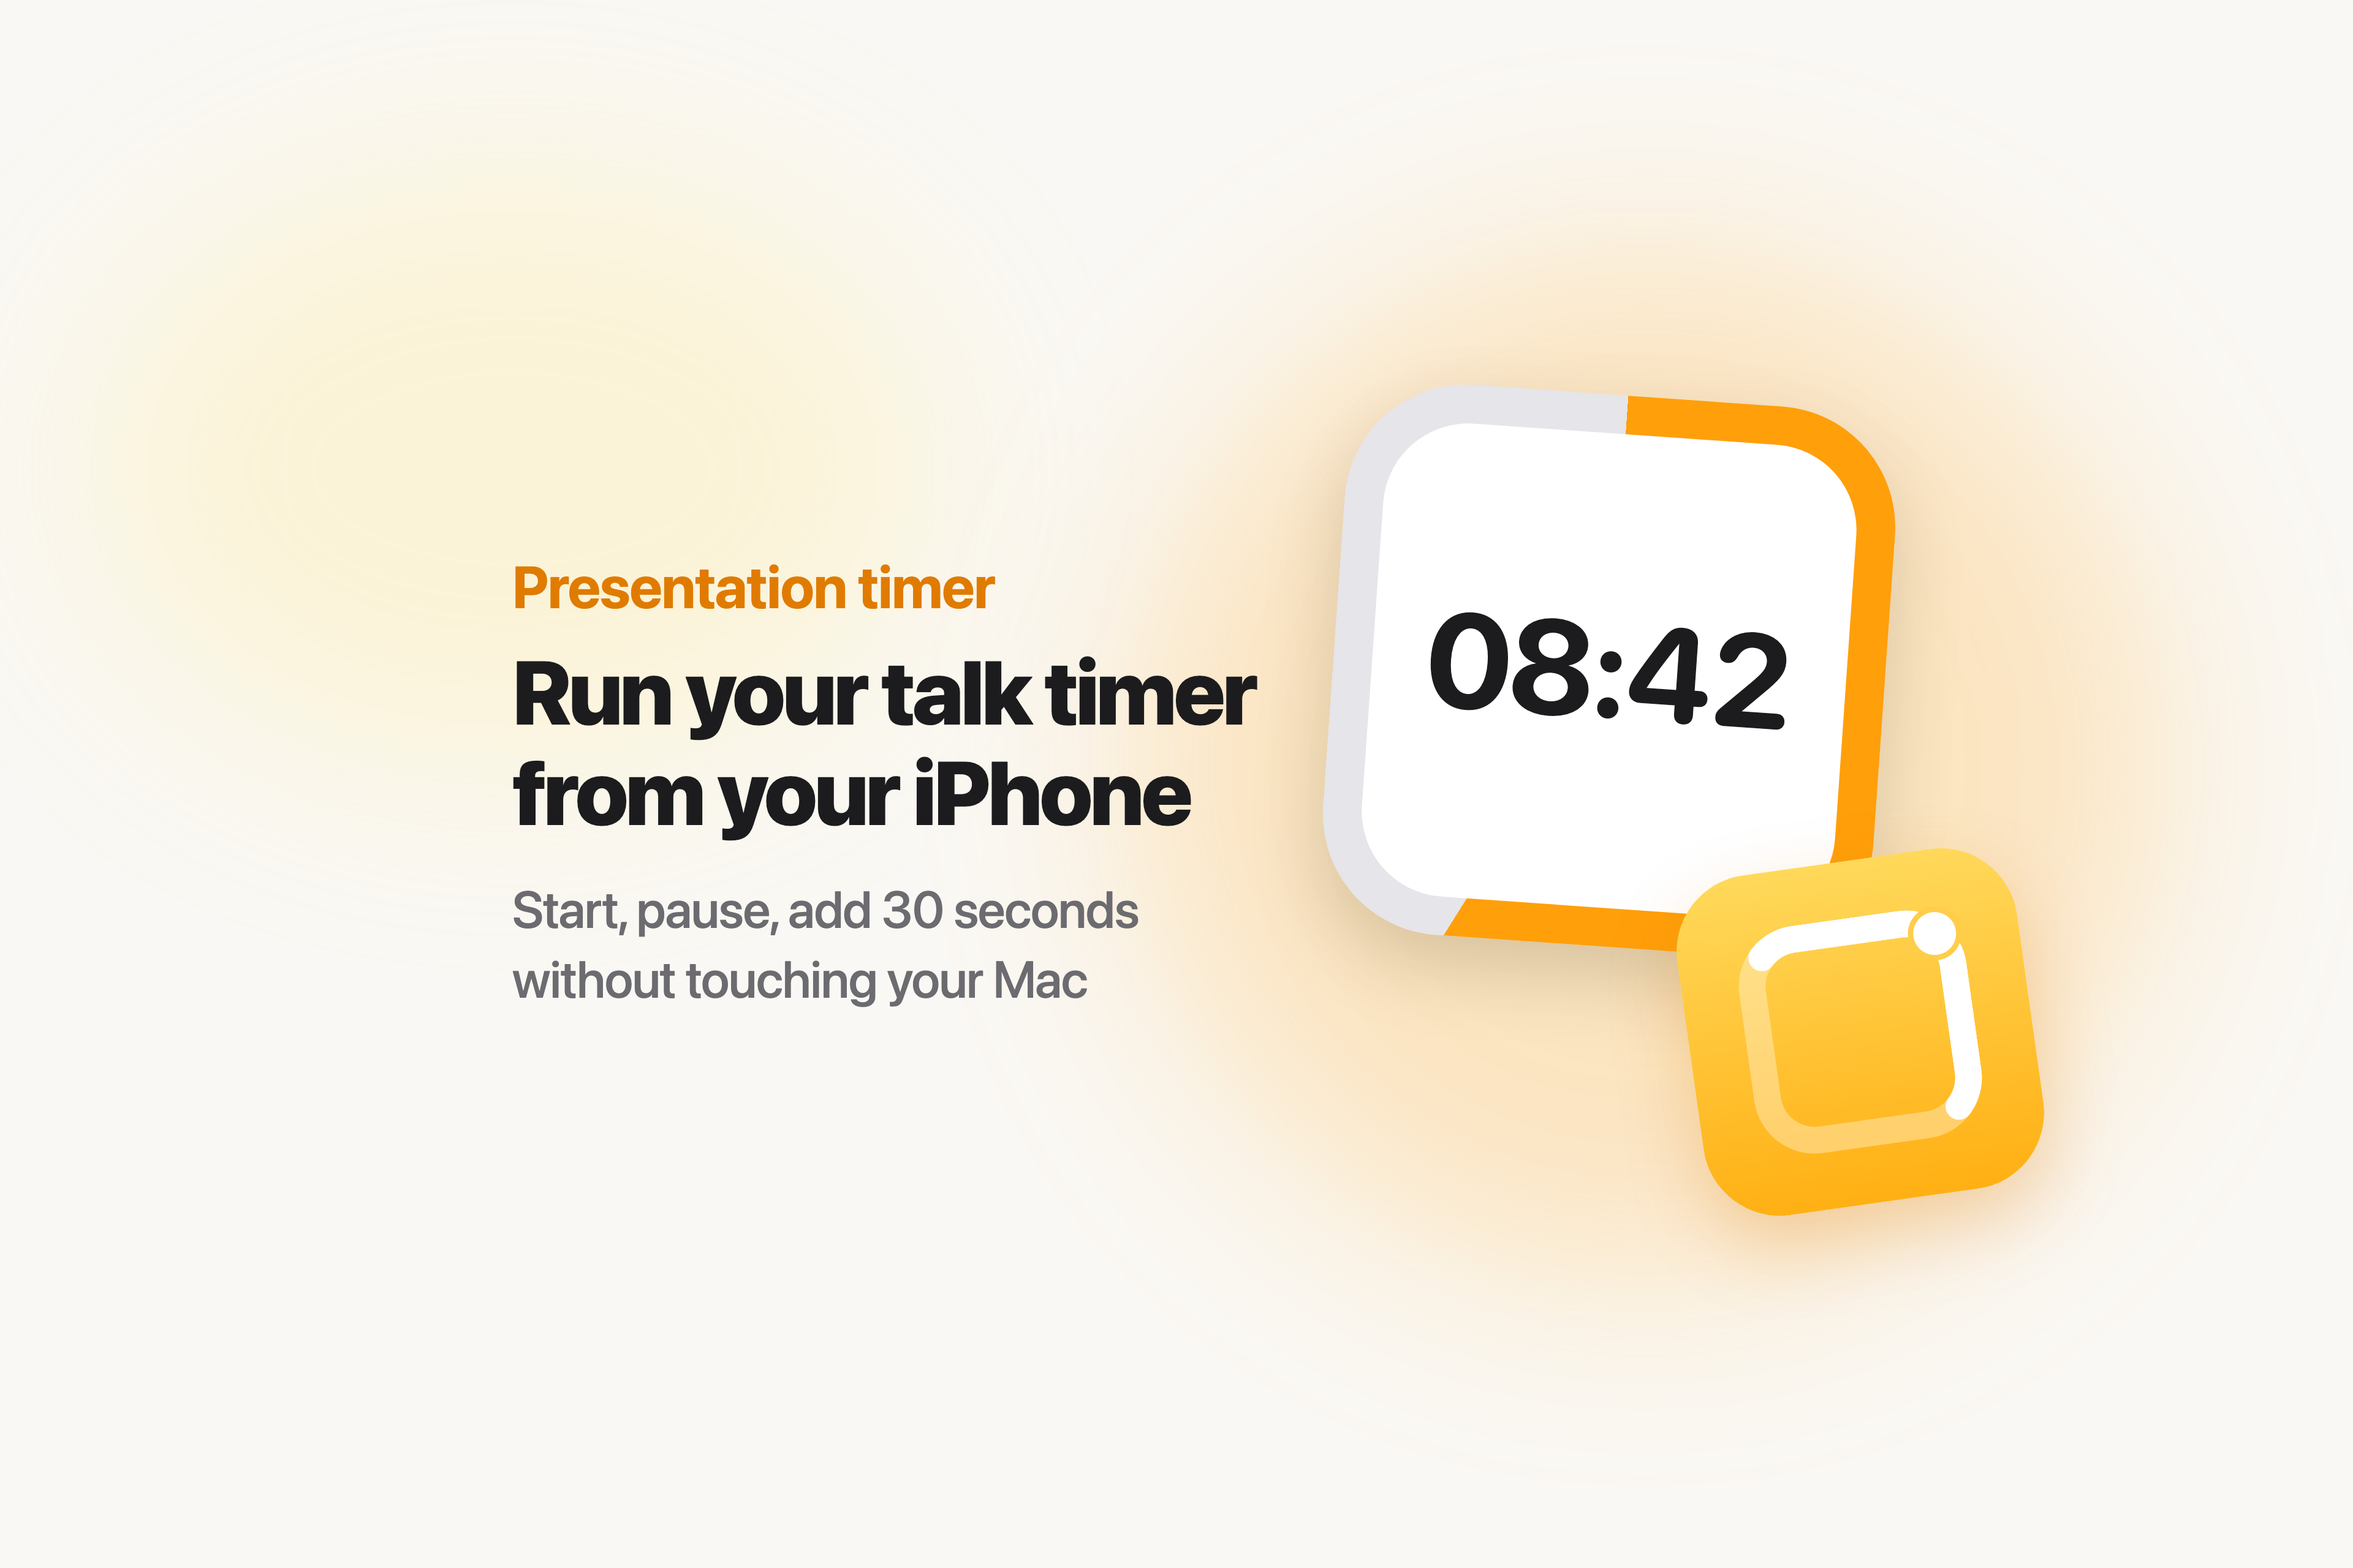
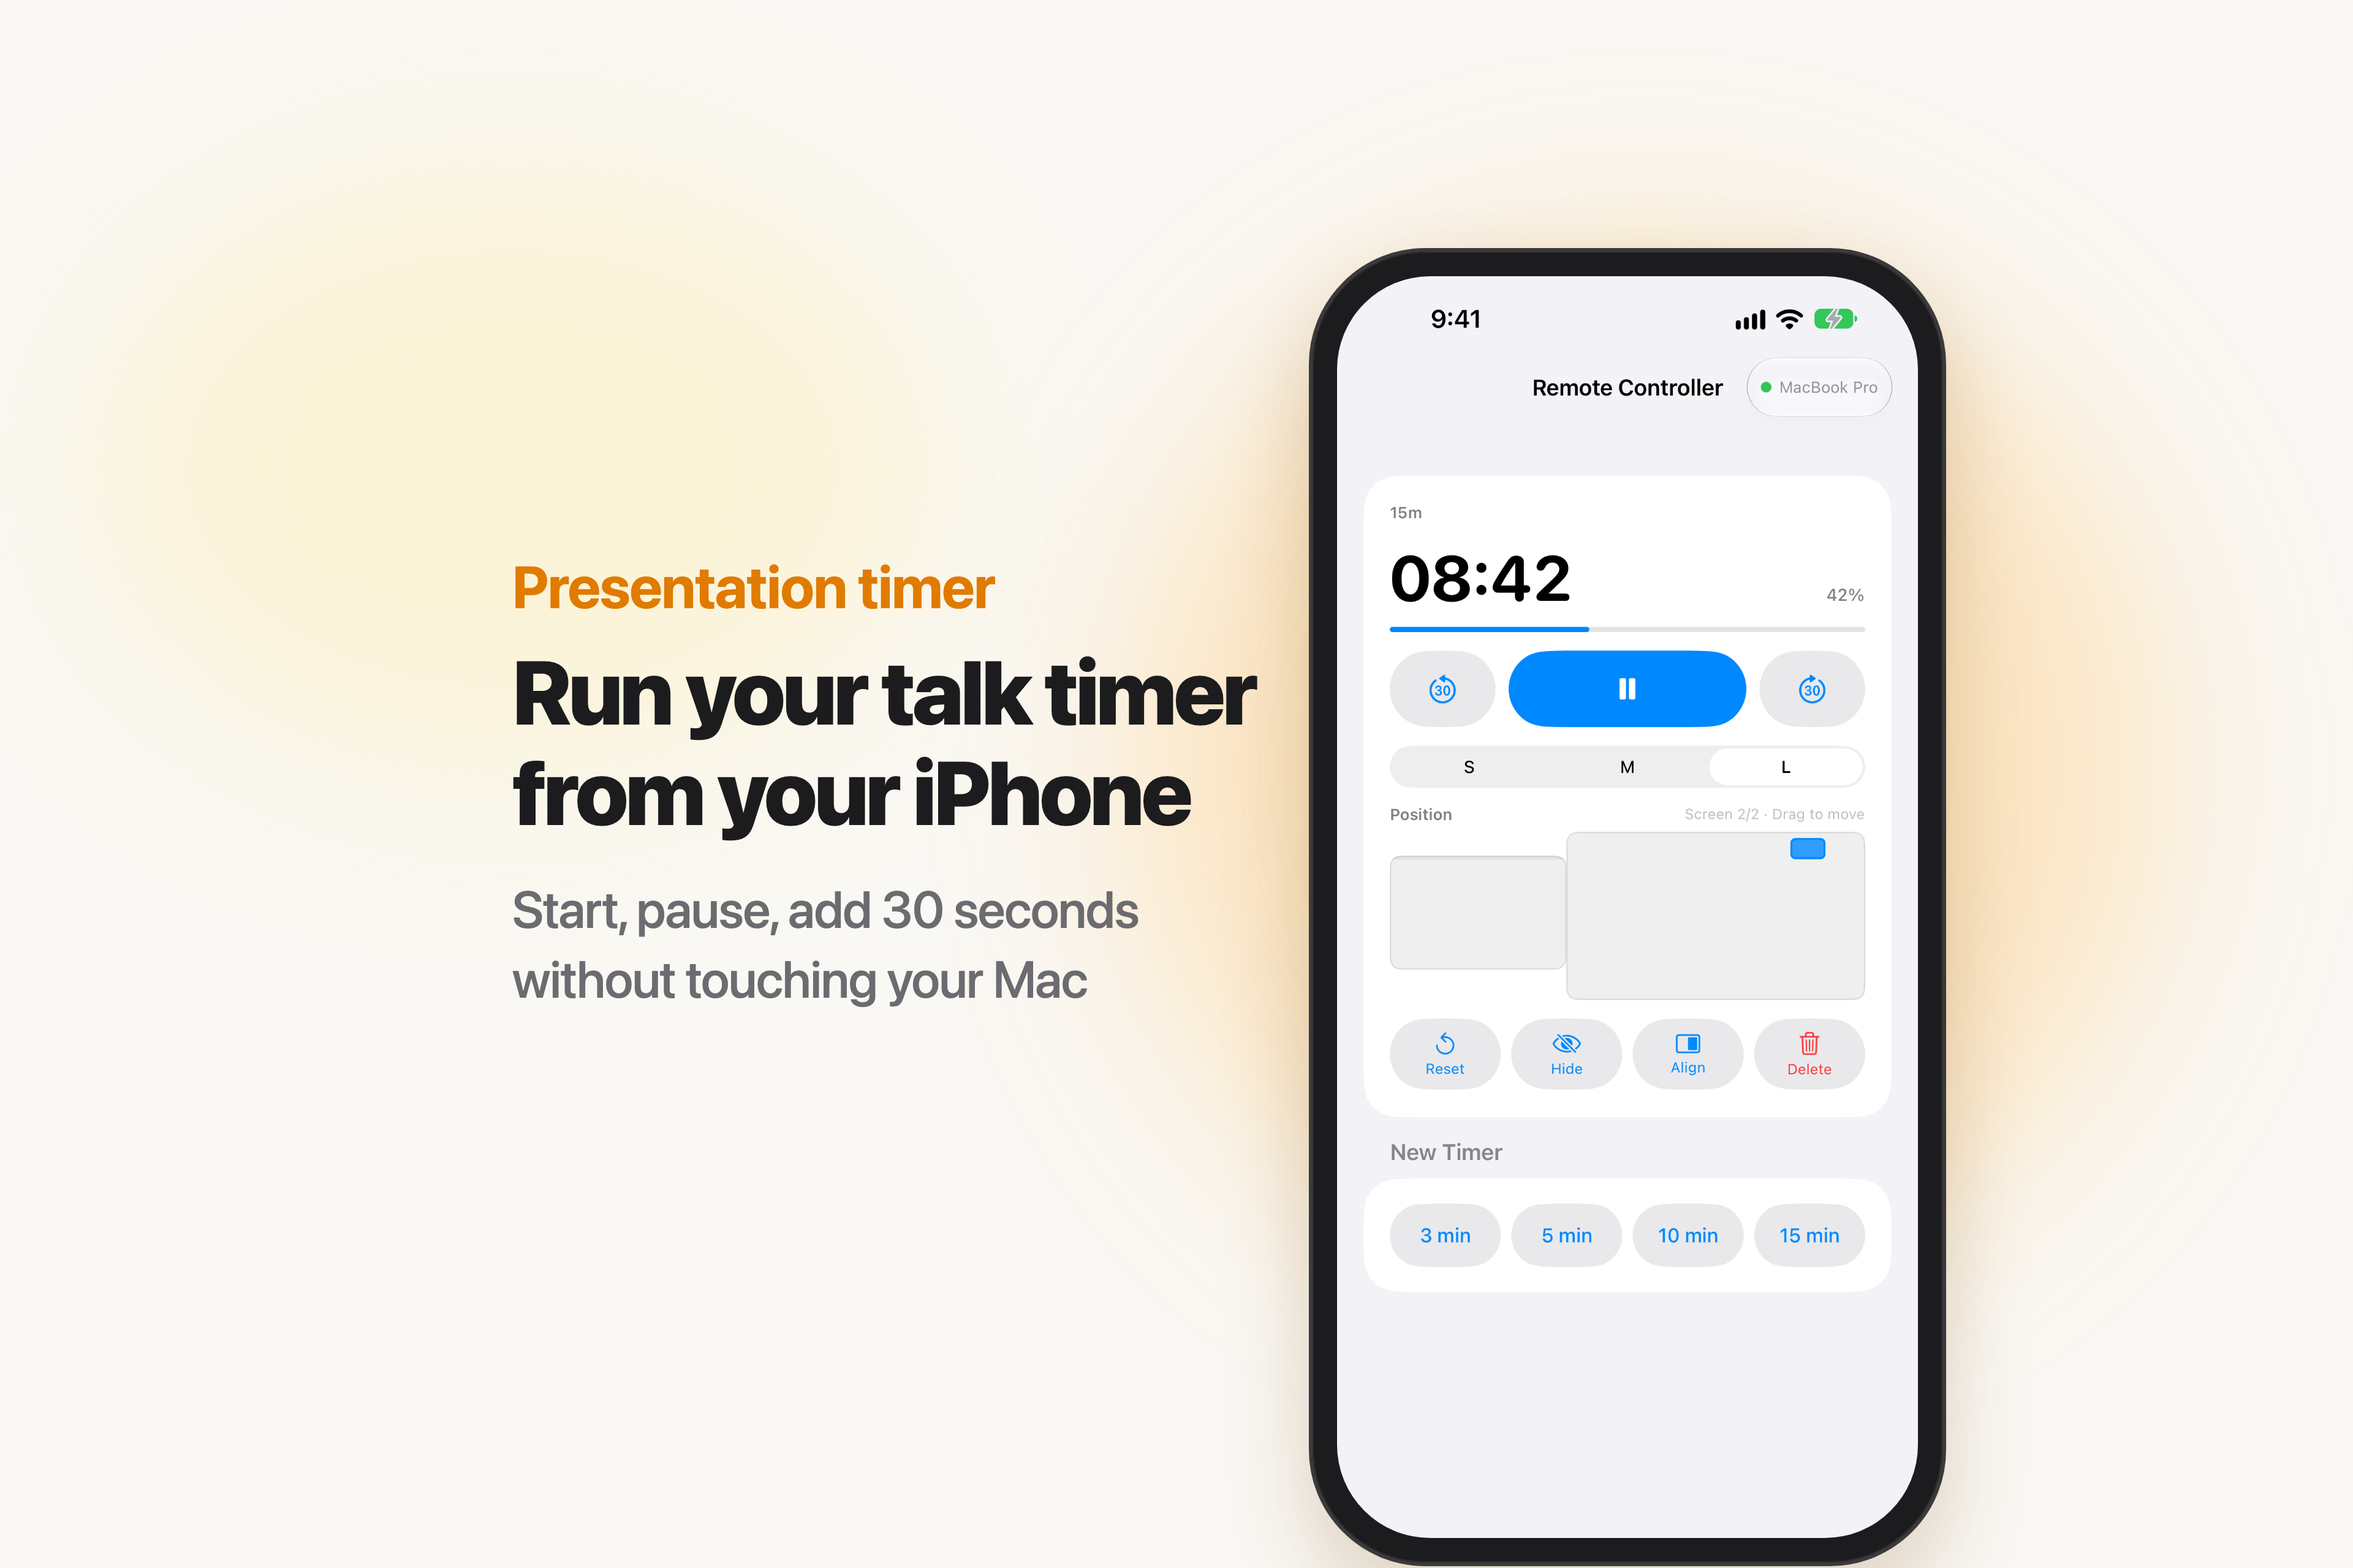
docs(스토어): 리모컨 1.0.9 릴리즈노트 · 스크린샷을 한국어 · 영어로 채운다
- RELEASE_NOTES.md 새로 둠: 1.0.9 앱스토어 (한국어) · App Store (English)
- 스크린샷 3장씩(ko · en-US, 1242x2688): 타이머 조작, 위젯 옮기기 판, Mac 고르기.
  원본은 raw/<로케일>/, 합성기는 scripts/make_marketing_screenshots.py
- 영어 헤더 · 검색 결과 그림에 영어 화면을 넣는다(앱이 영어를 갖췄으므로)
- 한국어 키워드를 99자로 채운다

Changed region(s): [[0.5312, 0.1562, 0.875, 1.0]]

diff --git a/StickyPresenterRemote/scripts/make_marketing_screenshots.py b/StickyPresenterRemote/scripts/make_marketing_screenshots.py
@@ -1,0 +1,128 @@
+#!/usr/bin/env python3
+"""마케팅 스크린샷 목업 생성: HTML 생성 → 헤드리스 Chrome 렌더링.
+
+슬라이드마다 layout 이 달라 배치가 다양함:
+  hero-bleed  : 헤드라인 상단 중앙 + 정면 대형 폰, 하단 블리드
+  left-text   : 좌측 정렬 텍스트 + 오른쪽으로 기운 폰
+  text-bottom : 폰 상단 + 텍스트 하단
+  flat-rotate : 평면 회전(-5°) 폰, 하단 블리드
+  dark        : 다크 배경 반전 + 정면 폰
+"""
+import subprocess, sys, pathlib
+
+# 리모컨 앱(StickyPresenterRemote) 제출본. 사용법: python3 scripts/make_marketing_screenshots.py [로케일 ...]
+#   원본: docs/screenshots/raw/<로케일>/NN-….png  (시뮬레이터 6.9" 캡처, 그 언어 화면)
+#   제출: docs/screenshots/marketing/<로케일>/NN-….png  (1242x2688, DeployBar 가 올린다)
+# 원본은 Mac 이 붙어 있어야 화면이 차므로, 실제 Mac 앱(또는 같은 규약을 말하는 가짜 호스트)과 연결해 찍는다.
+ROOT = pathlib.Path(__file__).resolve().parent.parent
+RAW = ROOT / "docs" / "screenshots" / "raw"
+OUTROOT = ROOT / "docs" / "screenshots" / "marketing"
+WORK = pathlib.Path("/tmp")
+CHROME = "/Applications/Google Chrome.app/Contents/MacOS/Google Chrome"
+W, H = 1242, 2688   # 이 계정의 아이폰 제출 규격
+
+# 앱은 한국어 원문 + 영어. 헤드라인은 언어마다 따로 쓴다(직역 금지).
+# 리모컨은 타이머만 다룬다 - 슬라이드 넘기기는 없다.
+SHOTS = {
+    "ko": [
+        ("01-timer.png",      "hero-bleed",  "발표 타이머를<br>손안에서", "Mac에 손대지 않고 시작, 멈춤, 30초 더하기"),
+        ("02-pomodoro.png",   "left-text",   "슬라이드를 가리면<br>끌어서 비켜 두기", "Mac 화면 배치 그대로,<br>옆 화면으로도 넘겨요"),
+        ("03-choose-mac.png", "text-bottom", "코드 한 번이면<br>내 Mac에만 연결", "같은 Wi-Fi의 다른 Mac과 엇갈리지 않아요"),
+    ],
+    "en-US": [
+        ("01-timer.png",      "hero-bleed",  "Your talk timer,<br>in your hand", "Start, pause, or add 30 seconds<br>without touching your Mac"),
+        ("02-pomodoro.png",   "left-text",   "Covering a slide?<br>Drag it away", "A mini map of your Mac's screens,<br>second display included"),
+        ("03-choose-mac.png", "text-bottom", "Pair once.<br>Only your Mac.", "Other Macs on the same Wi-Fi<br>stay out of it"),
+    ],
+}
+
+BASE_CSS = f"""
+* {{ margin:0; padding:0; box-sizing:border-box; }}
+html,body {{ width:{W}px; height:{H}px; overflow:hidden; }}
+body {{ background:#faf8f4; font-family:-apple-system, "Apple SD Gothic Neo", sans-serif; position:relative; }}
+.headline {{ font-size:96px; font-weight:800; color:#1c1c1e; letter-spacing:-2px; line-height:1.18; word-break:keep-all; }}
+.sub {{ font-size:48px; font-weight:500; color:#6b6b70; letter-spacing:-1px; line-height:1.35; word-break:keep-all; }}
+.phone {{ background:#17171a; border-radius:116px; border:3px solid #3a3a3e; padding:25px;
+  box-shadow: 60px 90px 120px rgba(0,0,0,.28), 20px 30px 50px rgba(0,0,0,.18); }}
+.phone img {{ width:100%; display:block; border-radius:92px; }}
+"""
+
+LAYOUTS = {
+    # 1) 정면 대형, 하단 블리드
+    "hero-bleed": """
+.headline { text-align:center; margin-top:290px; padding:0 70px; }
+.sub { text-align:center; margin-top:52px; }
+.wrap { display:flex; justify-content:center; margin-top:150px; }
+.phone { width:1000px; }
+""",
+    # 2) 좌측 정렬 텍스트 + 오른쪽 기울기, 오른쪽 블리드
+    "left-text": """
+.headline { text-align:left; margin:300px 0 0 110px; }
+.sub { text-align:left; margin:48px 0 0 114px; }
+.wrap { perspective:2600px; perspective-origin:30% 30%; position:absolute; left:300px; top:990px; }
+.phone { width:840px; transform:rotateY(16deg) rotateX(2deg); }
+""",
+    # 3) 폰 상단, 텍스트 하단
+    "text-bottom": """
+.wrap { perspective:2800px; perspective-origin:50% 40%; display:flex; justify-content:center; margin-top:170px; }
+.phone { width:880px; transform:rotateY(-10deg) rotateX(2deg); }
+.headline { text-align:center; margin-top:120px; padding:0 70px; }
+.sub { text-align:center; margin-top:48px; }
+""",
+    # 4) 평면 회전, 좌측 치우침 + 하단 블리드
+    "flat-rotate": """
+.headline { text-align:center; margin-top:270px; padding:0 70px; }
+.sub { text-align:center; margin-top:52px; }
+.wrap { position:absolute; left:120px; top:1010px; }
+.phone { width:1010px; transform:rotate(-6deg); }
+""",
+    # 5) 다크 배경 반전 + 정면
+    "dark": """
+body { background:#131316; }
+.headline { color:#f5f5f7; text-align:center; margin-top:290px; padding:0 70px; }
+.sub { color:#77777d; text-align:center; margin-top:52px; }
+.wrap { display:flex; justify-content:center; margin-top:150px; }
+.phone { width:930px; border-color:#48484e;
+  box-shadow: 0 0 160px rgba(80,140,255,.22), 40px 70px 110px rgba(0,0,0,.55); }
+""",
+}
+
+# text-bottom 은 폰이 먼저 오는 DOM 순서
+BODY_TEXT_FIRST = '<div class="headline">{headline}</div><div class="sub">{sub}</div><div class="wrap"><div class="phone"><img src="{img}"></div></div>'
+BODY_PHONE_FIRST = '<div class="wrap"><div class="phone"><img src="{img}"></div></div><div class="headline">{headline}</div><div class="sub">{sub}</div>'
+
+HTML = """<!doctype html><html lang="{lang}"><head><meta charset="utf-8"><style>
+{base}{layout}
+</style></head><body>{body}</body></html>"""
+
+def main(only=None):
+    for loc, shots in SHOTS.items():
+        if only and loc not in only:
+            continue
+        out = OUTROOT / loc
+        out.mkdir(parents=True, exist_ok=True)
+        for fname, layout, headline, sub in shots:
+            body_tpl = BODY_PHONE_FIRST if layout == "text-bottom" else BODY_TEXT_FIRST
+            body = body_tpl.format(headline=headline, sub=sub, img=(RAW / loc / fname).as_uri())
+            html_path = WORK / f"sp-remote-{loc}-{fname.replace('.png', '.html')}"
+            html_path.write_text(HTML.format(lang=loc[:2], base=BASE_CSS, layout=LAYOUTS[layout], body=body),
+                                 encoding="utf-8")
+            out_png = out / fname
+            # 다른 Chrome 이 떠 있으면 가끔 그리지 못하고 끝난다. 몇 번 다시 한다.
+            for _ in range(4):
+                try:
+                    r = subprocess.run([CHROME, "--headless=new", f"--screenshot={out_png}",
+                                        f"--window-size={W},{H}", "--force-device-scale-factor=1",
+                                        "--hide-scrollbars", "--disable-gpu", "--virtual-time-budget=2000",
+                                        "--allow-file-access-from-files", html_path.as_uri()],
+                                       capture_output=True, timeout=90)
+                except subprocess.TimeoutExpired:
+                    continue
+                if r.returncode == 0:
+                    break
+            else:
+                raise SystemExit(f"Chrome 이 그리지 못했다: {out_png}")
+            print(f"rendered {out_png}")
+
+if __name__ == "__main__":
+    main(sys.argv[1:] or None)

diff --git a/StickyPresenterRemote/scripts/make_creative_assets.py b/StickyPresenterRemote/scripts/make_creative_assets.py
@@ -24,10 +24,9 @@ CHROME = "/Applications/Google Chrome.app/Contents/MacOS/Google Chrome"
 # 앱 언어 코드 → App Store Connect 로케일 (deploy.env LOCALES=ko,en-US)
 STORE = {"en": "en-US"}
 
-# ⚠ 리모컨 화면은 한국어로만 그려진다(Sources/RemoteApp.swift 에 문구가 박혀 있다).
-#    영어 그림에 한국어 화면을 넣으면 글자가 섞이므로, 영어는 기기 화면 대신
-#    앱 아이콘과 Mac 위젯 모양(숫자만)으로 꾸민다. 앱이 영어를 갖추면 캡처를 넣고 이 표를 지운다.
-DEVICE_LANGS = {"ko"}
+# 기기 화면을 넣을 언어. 리모컨은 한국어·영어로 그려진다(Sources/{ko,en}.lproj).
+# 원본은 raw/creative/<언어>/01-timer.png · 02-pomodoro.png — 그 언어 화면이어야 한다.
+DEVICE_LANGS = {"ko", "en"}
 
 # (가로, 세로, 안전 영역 left, top, right, bottom)
 SPEC = {

diff --git a/StickyPresenterRemote/RELEASE_NOTES.md b/StickyPresenterRemote/RELEASE_NOTES.md
@@ -1,0 +1,19 @@
+# StickyPresenterRemote 릴리즈 노트 (App Store)
+
+DeployBar 가 배포할 때 이 파일의 `## <버전>` ▸ `### 앱스토어 (...)` 절을 읽어
+리모컨 앱의 '이 버전의 새로운 기능' 칸에 그대로 올린다.
+Mac 앱 노트는 레포 최상단 `RELEASE_NOTES.md` 에 따로 있다.
+
+## 1.0.9
+
+### 앱스토어 (한국어)
+
+이제 영어 화면으로도 쓸 수 있어요
+Mac용 StickyPresenter 새 버전과 함께 쓸 수 있어요
+코드를 한 번 넣으면 내 Mac에만 연결돼요
+
+### App Store (English)
+
+The app is now available in English
+Works with the new StickyPresenter for Mac
+Pair once with a code to reach only your Mac

diff --git a/StickyPresenterRemote/APPSTORE.md b/StickyPresenterRemote/APPSTORE.md
@@ -16,7 +16,7 @@ Mac 발표 타이머를 손안에서
 
 ### 키워드
 
-프레젠테이션,프레젠터,리모컨,원격조종,카운트다운,뽀모도로,스톱워치,강의,강연,수업,회의,세미나,스피치,연설,타임키퍼,시간관리,스티키
+프레젠테이션,프레젠터,리모컨,원격조종,카운트다운,뽀모도로,스톱워치,강의,강연,수업,회의,세미나,스피치,연설,타임키퍼,시간관리,스티키,무대,강사,진행자,시계,피티,포모도로,리허설
 
 ### 프로모션 텍스트
 
